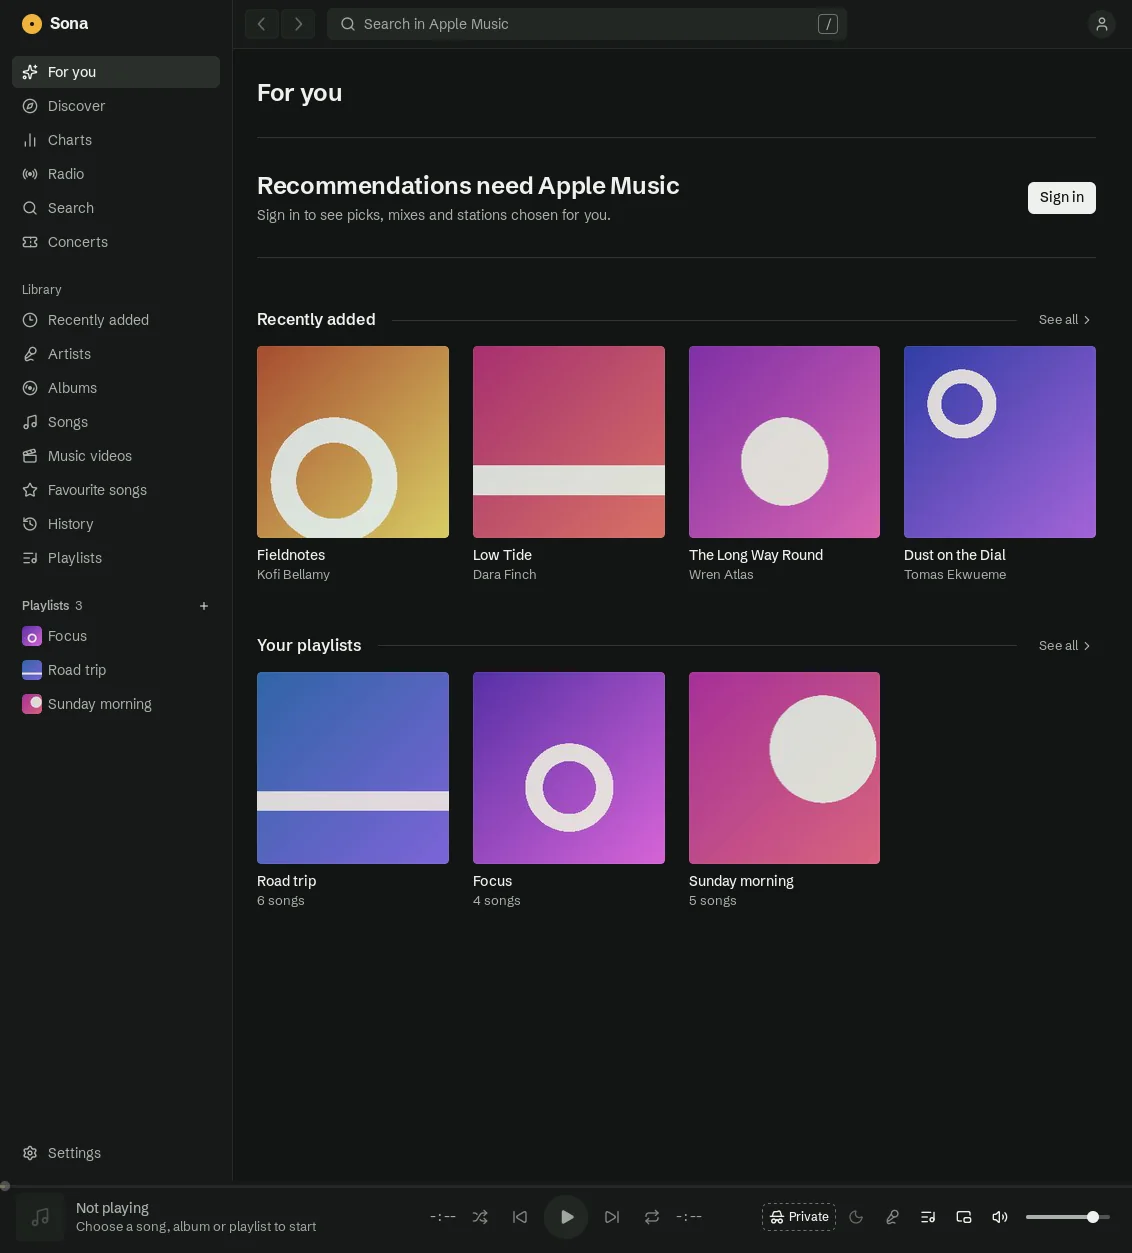
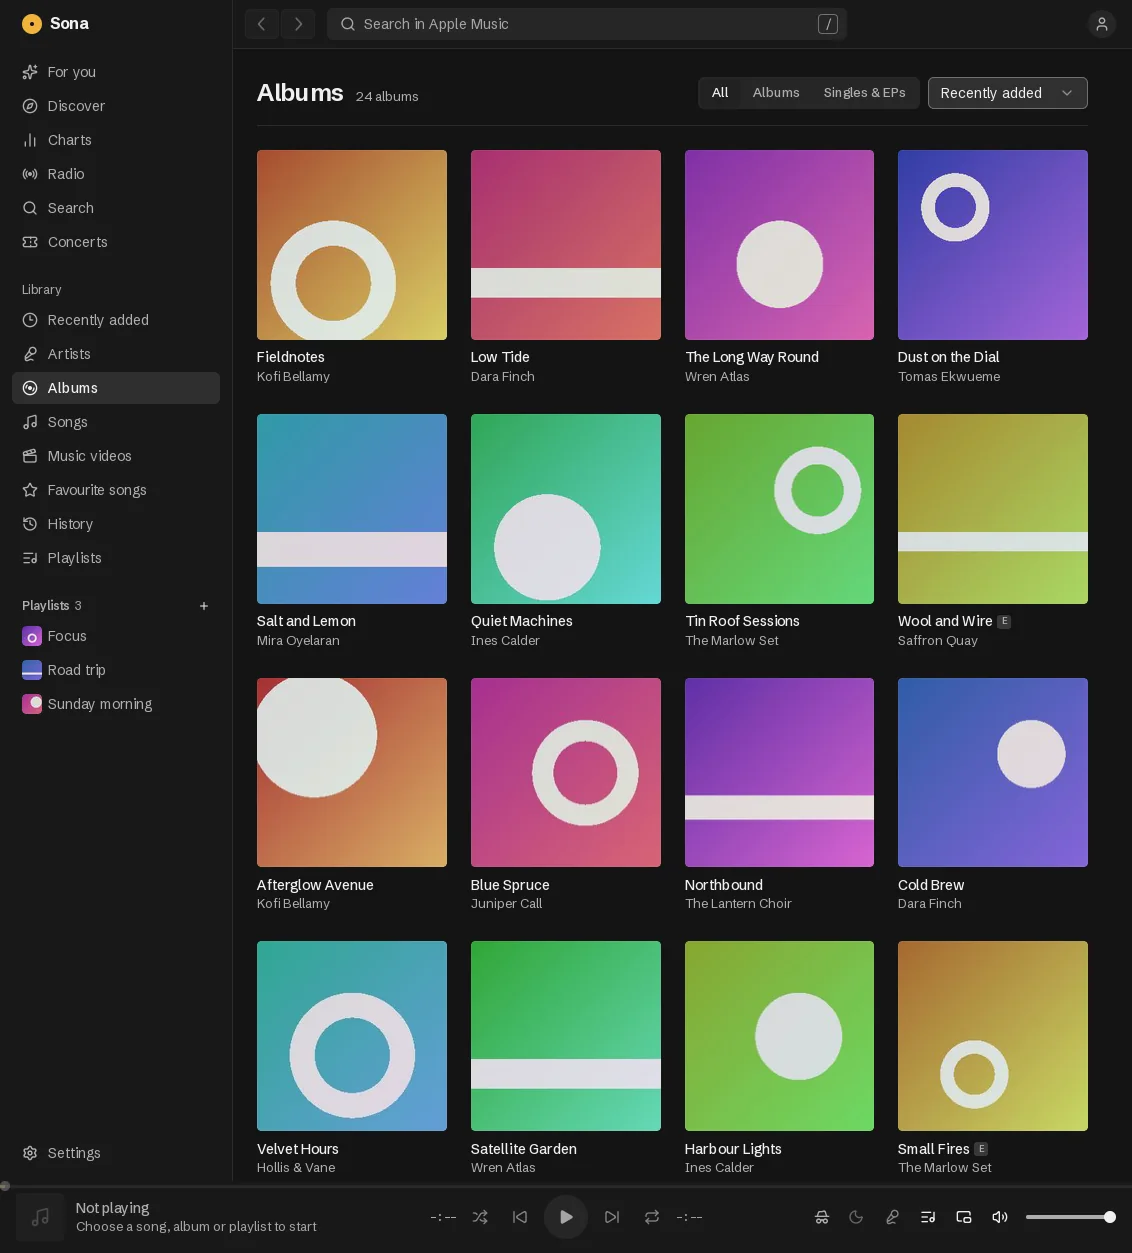
docs: the site's splash shows the signed-in albums grid, anchors show on hover

diff --git a/site/src/styles/sona.css b/site/src/styles/sona.css
@@ -242,3 +242,30 @@ nav.sidebar summary .large {
     transition: none !important;
   }
 }
+
+/* Heading anchors show on hover or focus only, in ink-faint */
+.sl-markdown-content .sl-anchor-link {
+  opacity: 0;
+  transition: opacity 0.15s ease-out;
+}
+.sl-markdown-content .sl-anchor-link svg {
+  color: var(--sl-color-gray-3);
+}
+.sl-heading-wrapper:hover .sl-anchor-link,
+.sl-anchor-link:focus-visible {
+  opacity: 1;
+}
+
+/* One rhythm above every h2, on the splash too */
+.sl-markdown-content .sl-heading-wrapper.level-h2 {
+  margin-top: 2.75rem;
+}
+.sona-split .sl-heading-wrapper.level-h2 {
+  margin-top: 0;
+}
+.sl-markdown-content .sona-split {
+  margin-top: 2.75rem;
+}
+.sl-markdown-content .sona-shot ~ p {
+  margin-top: 1.75rem;
+}

diff --git a/CONTRIBUTING.md b/CONTRIBUTING.md
@@ -603,7 +603,7 @@ CI runs [gitleaks](https://github.com/gitleaks/gitleaks) on every pull request a
 
 ## Documentation site
 
-The public docs are an [Astro Starlight](https://starlight.astro.build) site in `site/`, published to https://sona.coredev.uk by `.github/workflows/pages.yml`. Pages are Markdown in `site/src/content/docs/`. Preview with `devenv shell -- docs`, and run `npm run lint` and `npm run build` in `site/` before you push (a broken internal link fails the build). `docs/` holds the contributor and agent references: architecture, design, UI architecture and the rest. The writing rules are on the site's "Write Docs" page.
+The public docs are an [Astro Starlight](https://starlight.astro.build) site in `site/`, published to https://sona.coredev.uk by `.github/workflows/pages.yml`. Pages are Markdown in `site/src/content/docs/`. Preview with `devenv shell -- docs`, and run `npm run lint` and `npm run build` in `site/` before you push (a broken internal link fails the build). `docs/` holds the contributor and agent references: architecture, design, UI architecture and the rest. The writing rules are on the site's "Writing docs" page.
 
 ## Branches and pull requests
 

diff --git a/site/src/content/docs/contributing/documentation.md b/site/src/content/docs/contributing/documentation.md
@@ -1,5 +1,5 @@
 ---
-title: Write Docs
+title: Writing docs
 description: Where the documentation lives, how to preview it, and the rules for writing pages.
 ---
 
